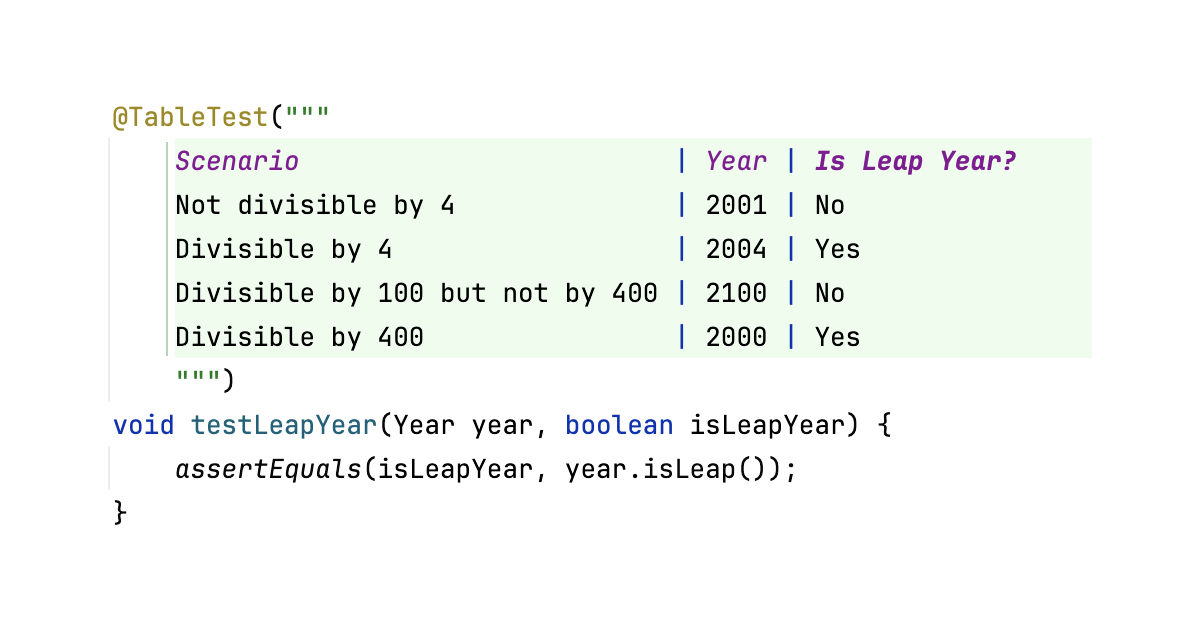
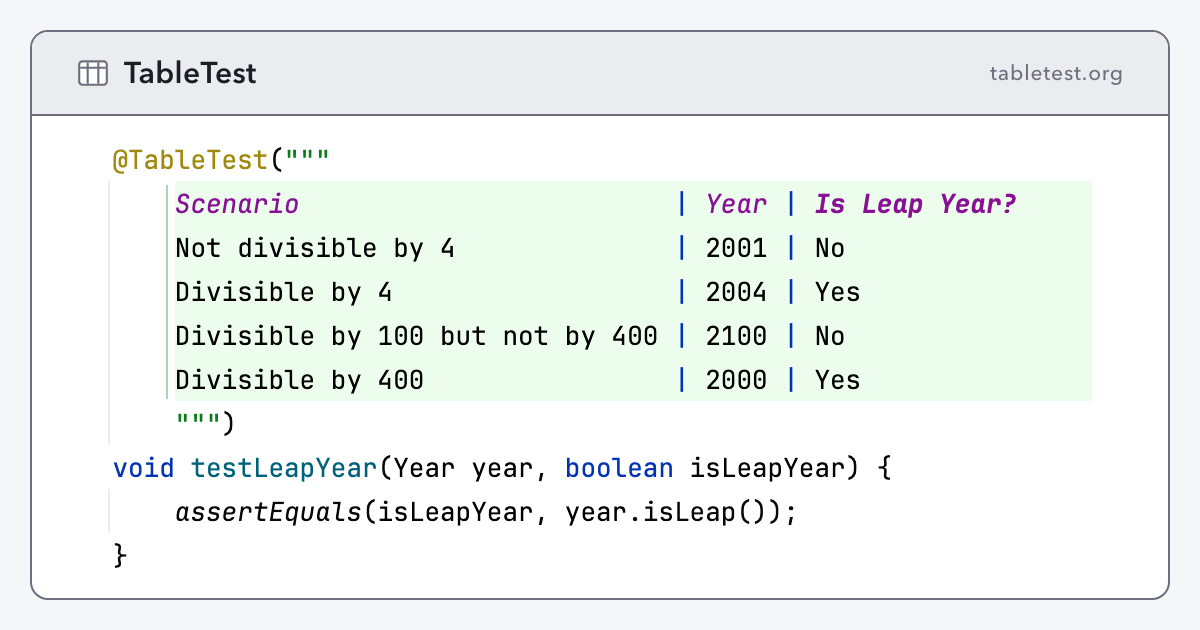
feat: social card frames the real test
Bring back the wordmark band and the card frame, with the leap year
screenshot as the illustration in place of the drawn table. The card
renders at scale factor 1, so the screenshot keeps its own pixels.

diff --git a/scripts/og-card.html b/scripts/og-card.html
@@ -1,0 +1,118 @@
+<!doctype html>
+<!--
+  Source of static/images/og-card.png — the 1200x630 social card that Slack, LinkedIn
+  and X show when someone links to tabletest.org.
+
+  The card is a frame with the TableTest wordmark, holding the leap year screenshot
+  from content/leap-year-table-old.png. The screenshot carries uneven white margins,
+  so the .shot box clips them and shows the code block alone.
+
+  Regenerate after editing (Playwright and macOS system fonts required):
+
+    npx playwright screenshot --viewport-size=1200,630 \
+      scripts/og-card.html static/images/og-card.png
+
+  Render at scale factor 1, so the screenshot keeps its own pixels. Scaling it up and
+  back down blurs the code. The frame uses Avenir Next, which ships with macOS.
+  Render on a Mac.
+-->
+<html>
+<head>
+<meta charset="utf-8">
+<style>
+  :root {
+    --paper: #F4F6F8;
+    --card: #FFFFFF;
+    --rule: #6C707E;
+    --band: #EBECF0;
+    --ink: #1A1F26;
+    --muted: #6C707E;
+  }
+  * { margin: 0; padding: 0; box-sizing: border-box; }
+  html, body { width: 1200px; height: 630px; }
+  body {
+    background: var(--paper);
+    font-family: "Avenir Next", "Helvetica Neue", sans-serif;
+    -webkit-font-smoothing: antialiased;
+    display: flex;
+    padding: 30px;
+  }
+  .card {
+    flex: 1;
+    background: var(--card);
+    border: 2px solid var(--rule);
+    border-radius: 18px;
+    overflow: hidden;
+    display: flex;
+    flex-direction: column;
+  }
+
+  /* top band — the strip above the first rule in the TableTest glyph */
+  .band {
+    height: 84px;
+    background: var(--band);
+    border-bottom: 2px solid var(--rule);
+    display: flex;
+    align-items: center;
+    justify-content: space-between;
+    padding: 0 44px;
+  }
+  .mark { display: flex; align-items: center; gap: 14px; }
+  .mark svg { display: block; }
+  .wordmark {
+    font-size: 30px;
+    font-weight: 600;
+    letter-spacing: 0.01em;
+    color: var(--ink);
+  }
+  .domain {
+    font-size: 21px;
+    font-weight: 500;
+    letter-spacing: 0.04em;
+    color: var(--muted);
+  }
+
+  .body {
+    flex: 1;
+    display: flex;
+    align-items: center;
+    justify-content: center;
+    padding: 24px 44px;
+  }
+
+  /* the screenshot, with its own margins clipped away */
+  .shot {
+    width: 984px;
+    height: 421px;
+    overflow: hidden;
+  }
+  .shot img {
+    display: block;
+    width: 1044px;
+    margin: -48px 0 0 -60px;
+  }
+</style>
+</head>
+<body>
+  <div class="card">
+    <div class="band">
+      <div class="mark">
+        <svg width="34" height="34" viewBox="0 0 16 16" fill="none" xmlns="http://www.w3.org/2000/svg">
+          <path d="M3 2.5H13C13.8284 2.5 14.5 3.17157 14.5 4V12C14.5 12.8284 13.8284 13.5 13 13.5H3C2.17157 13.5 1.5 12.8284 1.5 12V4C1.5 3.17157 2.17157 2.5 3 2.5Z" fill="#FFFFFF" stroke="#6C707E"/>
+          <path d="M5.5 3V13" stroke="#6C707E"/>
+          <path d="M10.5 3V13" stroke="#6C707E"/>
+          <path d="M2 5.5H14" stroke="#6C707E"/>
+        </svg>
+        <span class="wordmark">TableTest</span>
+      </div>
+      <span class="domain">tabletest.org</span>
+    </div>
+
+    <div class="body">
+      <div class="shot">
+        <img src="../content/leap-year-table-old.png" alt="">
+      </div>
+    </div>
+  </div>
+</body>
+</html>

diff --git a/AGENTS.md b/AGENTS.md
@@ -53,8 +53,9 @@ Slack, LinkedIn and X read the Open Graph tags in the page head.
 - `layouts/_partials/opengraph.html` and `twitter_cards.html` override the theme and the
   Hugo internal templates. Both read `utils/social-description.html`.
 - The social card is `static/images/og-card.png`, set in `hugo.yaml` as `params.images`.
-  It is the `content/leap-year-table-old.png` screenshot, centred on a white 1200x630
-  canvas. Rebuild it with `python3 scripts/og-card.py` after the screenshot changes.
+  Its source is `scripts/og-card.html`, which carries the command that renders it. The
+  card is a frame with the wordmark, holding the `content/leap-year-table-old.png`
+  screenshot. Render at scale factor 1, so the screenshot keeps its own pixels.
 
 ## Content guidelines
 
